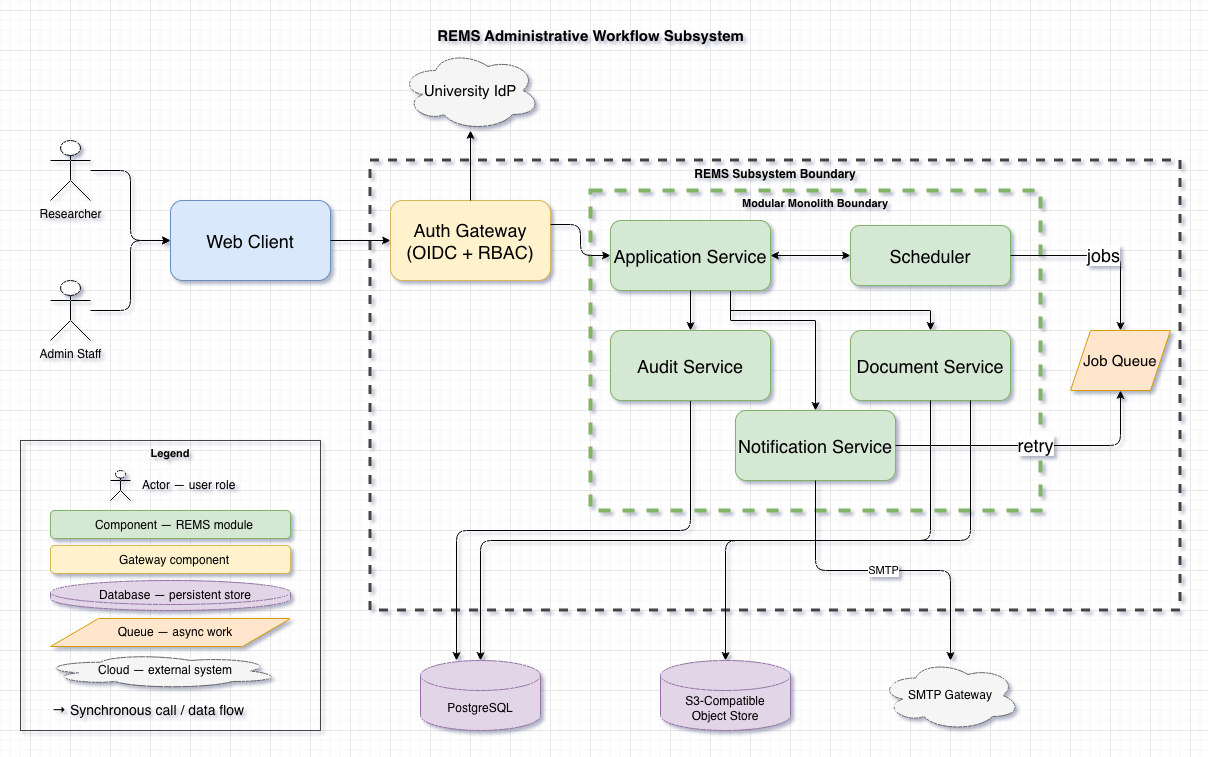
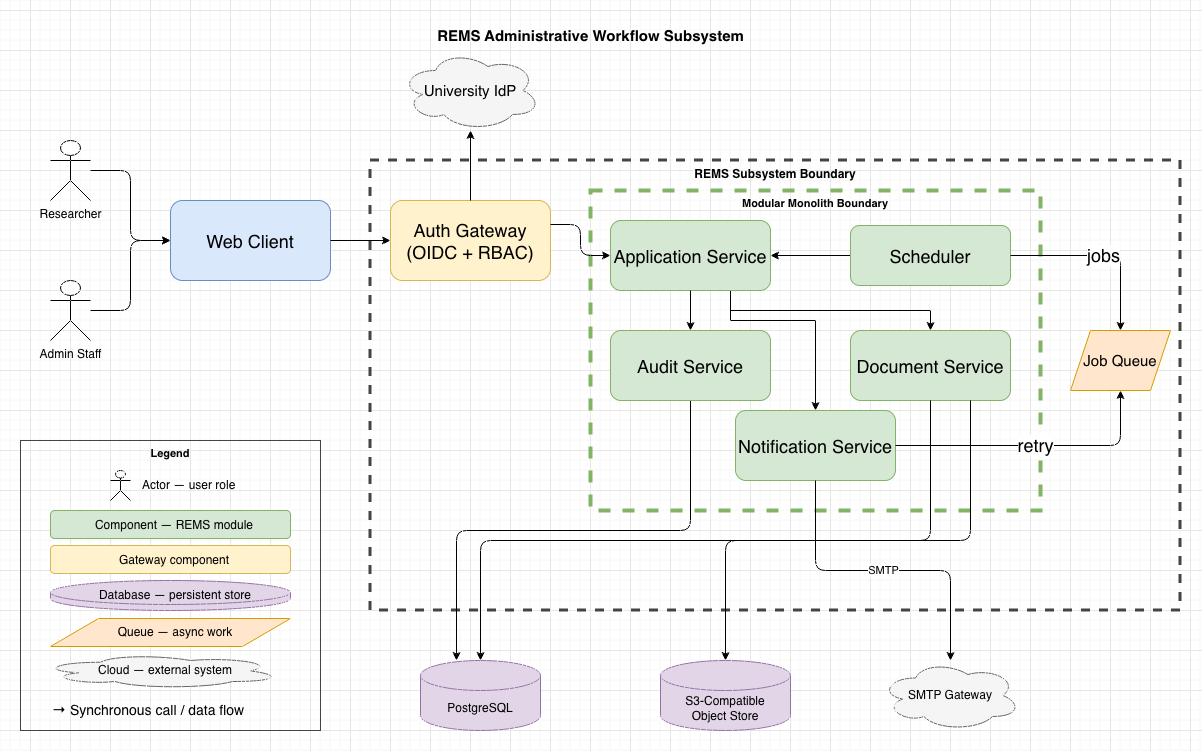
Update phase 2 architecture sketch for clarity and improve diagram description

diff --git a/phase-2-architecture-sketch.md b/phase-2-architecture-sketch.md
@@ -2,11 +2,11 @@
 
 **Group Number:** 10
 
-Scope: the **REMS administrative workflow subsystem**, including researcher-facing submission, status, and notification flows, but excluding internal committee review.
-
 ## 1.1 Architecture Style and Rationale
 
-REMS is designed as a [modular monolith](https://www.milanjovanovic.tech/blog/what-is-a-modular-monolith): one server behind an auth gateway, backed by [PostgreSQL](https://www.postgresql.org/), an S3-compatible object store, and a small asynchronous job queue. We did not choose microservices because the expected single-university scale does not justify the extra complexity of service-to-service authentication, distributed tracing, independent deployment, and cross-service failure handling. We also rejected a SharePoint-style extension because Phase 1 identified fragmented document storage as the main operational problem. The modular-monolith structure keeps operations simple while still giving clear internal boundaries for confidentiality, audit visibility, and workflow logic.
+Scope: This architecture sketch covers the **REMS administrative workflow subsystem**, including researcher-facing submission, status, and notification flows, but excluding internal committee review.
+
+REMS is designed as a [modular monolith](https://www.milanjovanovic.tech/blog/what-is-a-modular-monolith) with an auth gateway as its ingress, backed by [PostgreSQL](https://www.postgresql.org/), an S3-compatible object store, and a small asynchronous job queue. We did not choose microservices because the expected single-university scale does not justify the extra complexity of service-to-service authentication, distributed tracing, independent deployment, and cross-service failure handling. We also rejected a SharePoint-style extension because Phase 1 identified fragmented document storage as the main operational problem. The modular-monolith structure keeps operations simple while still giving clear internal boundaries for confidentiality, audit visibility, and workflow logic.
 
 ## 1.2 Component Responsibilities
 
@@ -21,7 +21,7 @@ REMS is designed as a [modular monolith](https://www.milanjovanovic.tech/blog/wh
 
 ## 1.3 Component Block Diagram
 
-![phase-2-architecture-sketch-diagram](./phase-2-architecture-sketch-diagram.drawio.png)
+![Block diagram of the REMS administrative workflow subsystem](./phase-2-architecture-sketch-diagram.drawio.png)
 
 ## 1.4 Major Data Flows
 